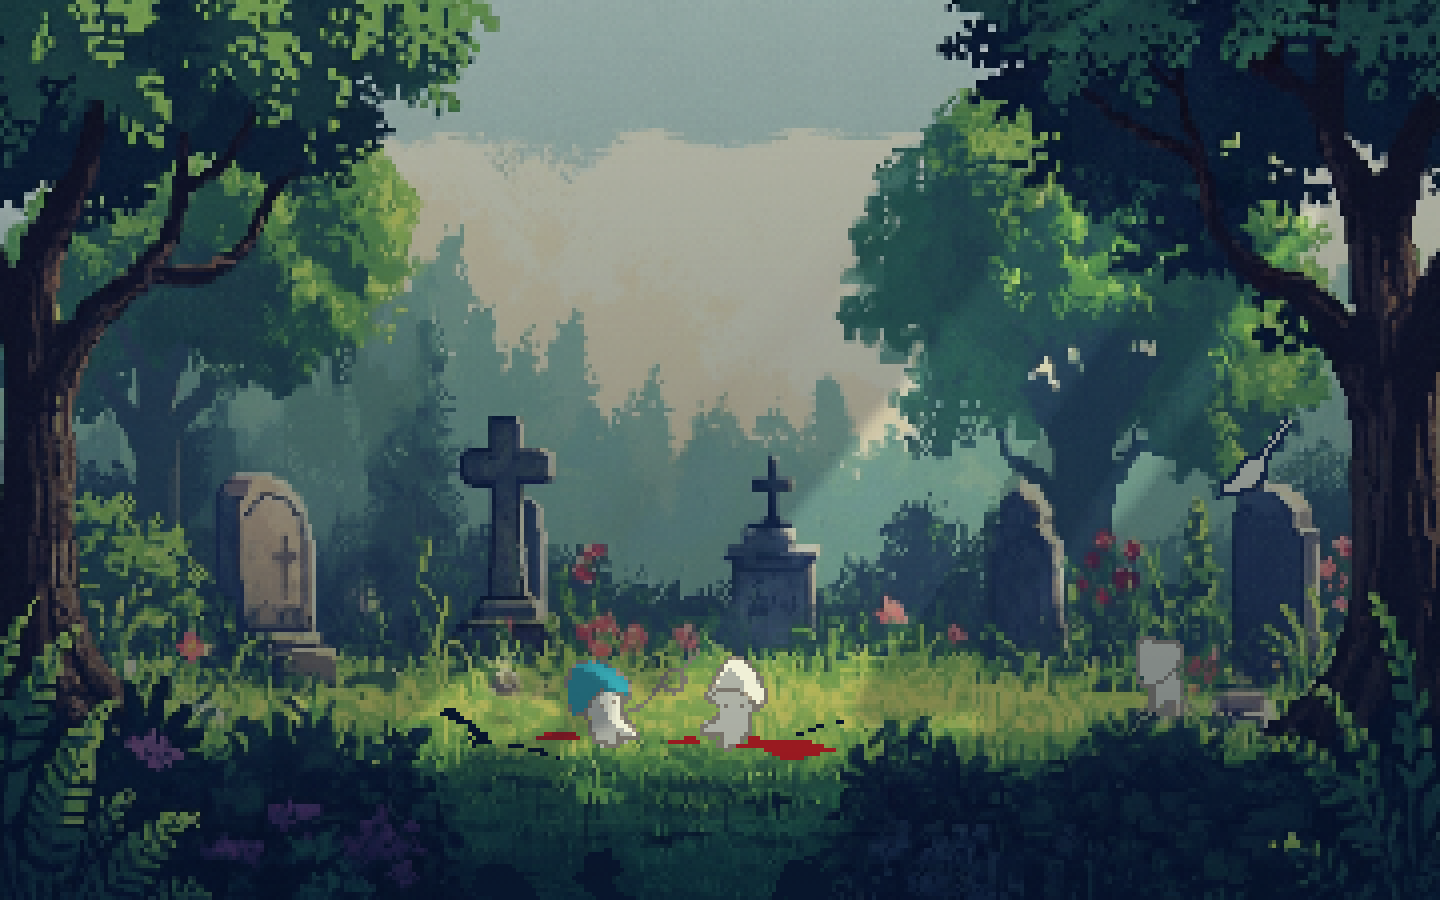
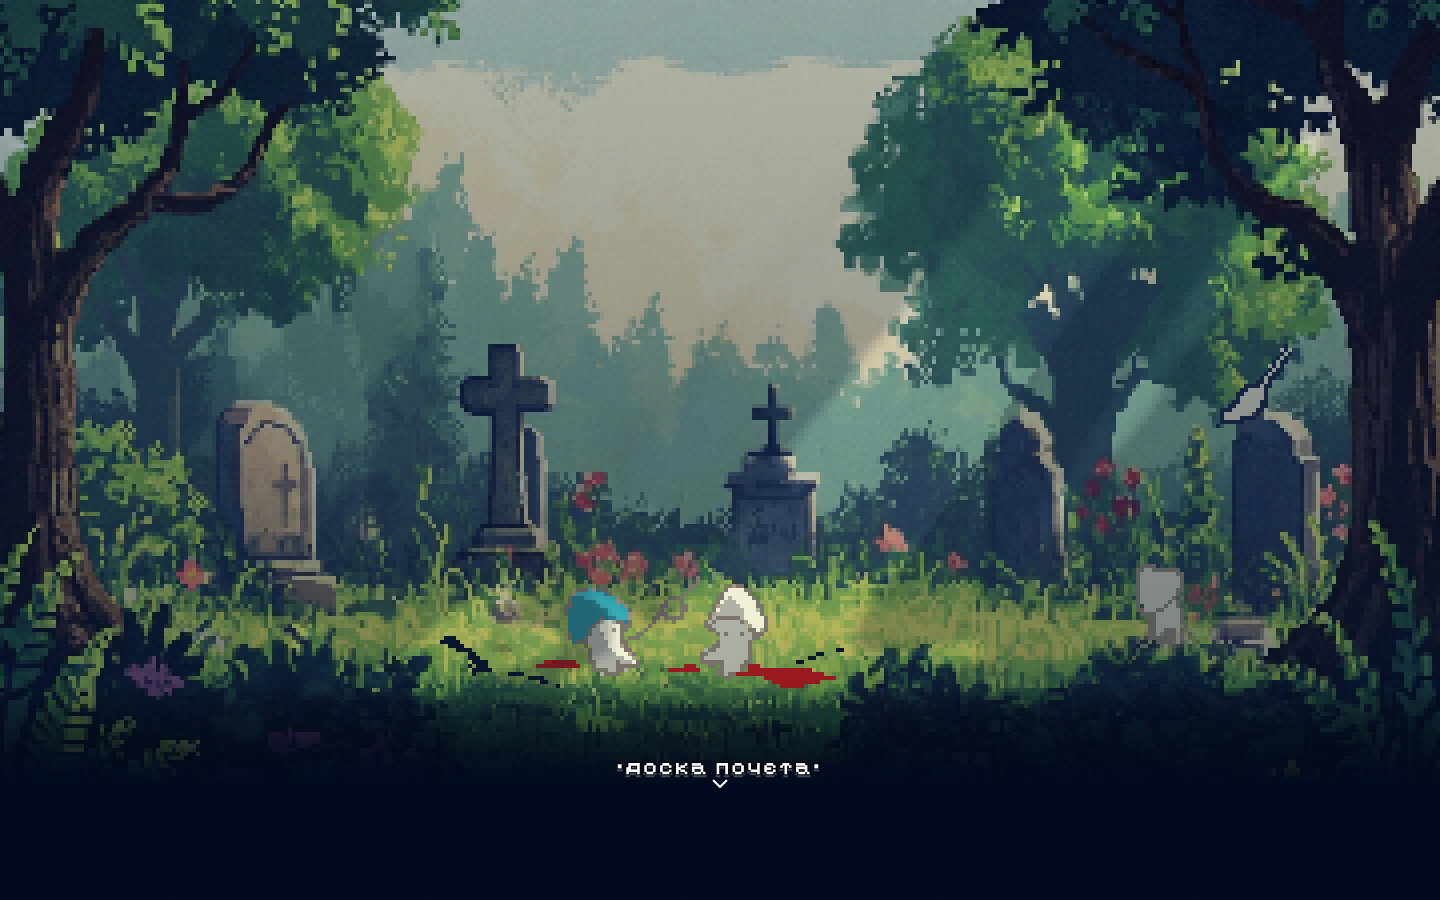
всякое

diff --git a/mushroomsArmy/client/src/pages/Lobby/Lobby.tsx b/mushroomsArmy/client/src/pages/Lobby/Lobby.tsx
@@ -359,82 +359,93 @@ const Lobby: React.FC<{ setPage: (page: PAGES) => void }> = ({ setPage }) => {
 
 
         <div className="lobby" style={lobbyPageStyle}>
-            <div className="lobby__container">
-                <div className="lobby__inner-border">
-                    {errorMsg && <div className="lobby__errorToast">{errorMsg}</div>}
 
-                    <h1 className="lobby__title">•список комнат•</h1>
+            <section className="lobby__screen lobby__screen--main">
+                <div className="lobby__container">
+                    <div className="lobby__inner-border">
+                        {errorMsg && <div className="lobby__errorToast">{errorMsg}</div>}
 
-                    <div className="lobby__list">
-                    {lobbies.length === 0 ? (
-                        <div className="lobby__empty">пока нет комнат :(</div>
-                    ) : (
-                        lobbies.map((lobby) => {
-                            const takenSlotsCount = LOBBY_ROLES.filter((role) => lobby.playersGuids[role] !== null).length;
-                            const armySlotTaken = lobby.playersGuids['mushroomsArmy'] !== null
-                                && lobby.playersGuids['mushroomsArmy'] !== user?.guid;
+                        <h1 className="lobby__title">•список комнат•</h1>
 
-                            return (
-                                <div key={lobby.lobbyGuid} className="lobby__card">
-                                    <div className="lobby__cardHeader">
-                                        <h3 className="lobby__cardTitle">{lobby.lobbyName}</h3>
-                                        <span className="lobby__slots">{takenSlotsCount}/5</span>
+                        <div className="lobby__list">
+                        {lobbies.length === 0 ? (
+                            <div className="lobby__empty">пока нет комнат :(</div>
+                        ) : (
+                            lobbies.map((lobby) => {
+                                const takenSlotsCount = LOBBY_ROLES.filter((role) => lobby.playersGuids[role] !== null).length;
+                                const armySlotTaken = lobby.playersGuids['mushroomsArmy'] !== null
+                                    && lobby.playersGuids['mushroomsArmy'] !== user?.guid;
+
+                                return (
+                                    <div key={lobby.lobbyGuid} className="lobby__card">
+                                        <div className="lobby__cardHeader">
+                                            <h3 className="lobby__cardTitle">{lobby.lobbyName}</h3>
+                                            <span className="lobby__slots">{takenSlotsCount}/5</span>
+                                        </div>
+
+                                        <div className="lobby__cardActions">
+                                            <span className="lobby__roleLabel">армия грибов</span>
+
+                                            <button
+                                                className="lobby__primaryButton"
+                                                disabled={armySlotTaken}
+                                                onClick={() => handleJoinLobby(lobby.lobbyGuid)}
+                                            >
+                                                войти
+                                            </button>
+                                        </div>
                                     </div>
+                                );
+                            })
+                        )}
+                        </div>
 
-                                    <div className="lobby__cardActions">
-                                        <span className="lobby__roleLabel">армия грибов</span>
+                        <button 
+                        className="lobby__secondaryButton lobby__secondaryButton--create" 
+                        onClick={handleCreateLobby}
+                        >
+                            создать комнату
+                        </button>
 
-                                        <button
-                                            className="lobby__primaryButton"
-                                            disabled={armySlotTaken}
-                                            onClick={() => handleJoinLobby(lobby.lobbyGuid)}
-                                        >
-                                            войти
-                                        </button>
-                                    </div>
+                        {isCreateModalOpen && (
+                        <div className="lobby__modalOverlay" onClick={() => setIsCreateModalOpen(false)}>
+                            <div className="lobby__modal" onClick={(event) => event.stopPropagation()}>
+                                <h3 className="lobby__modalTitle">создать комнату</h3>
+
+                                <input
+                                    className="lobby__input"
+                                    placeholder="название комнаты"
+                                    value={newLobbyName}
+                                    onChange={(event) => setNewLobbyName(event.target.value)}
+                                />
+
+                                <div className="lobby__modalActions">
+                                    <button className="lobby__secondaryButton" onClick={() => setIsCreateModalOpen(false)}>
+                                        отмена
+                                    </button>
+                                    <button
+                                        className="lobby__primaryButton"
+                                        disabled={!newLobbyName.trim()}
+                                        onClick={handleConfirmCreateLobby}
+                                    >
+                                        создать
+                                    </button>
                                 </div>
-                            );
-                        })
-                    )}
-                    </div>
-
-                    <button 
-                    className="lobby__secondaryButton lobby__secondaryButton--create" 
-                    onClick={handleCreateLobby}
-                    >
-                        создать комнату
-                    </button>
-
-                    {isCreateModalOpen && (
-                    <div className="lobby__modalOverlay" onClick={() => setIsCreateModalOpen(false)}>
-                        <div className="lobby__modal" onClick={(event) => event.stopPropagation()}>
-                            <h3 className="lobby__modalTitle">создать комнату</h3>
-
-                            <input
-                                className="lobby__input"
-                                placeholder="название комнаты"
-                                value={newLobbyName}
-                                onChange={(event) => setNewLobbyName(event.target.value)}
-                            />
-
-                            <div className="lobby__modalActions">
-                                <button className="lobby__secondaryButton" onClick={() => setIsCreateModalOpen(false)}>
-                                    отмена
-                                </button>
-                                <button
-                                    className="lobby__primaryButton"
-                                    disabled={!newLobbyName.trim()}
-                                    onClick={handleConfirmCreateLobby}
-                                >
-                                    создать
-                                </button>
                             </div>
                         </div>
+                        )}
                     </div>
-                    )}
                 </div>
-            </div>
+            </section>
+        
+
+            <section className="lobby__screen lobby__screen--credits">
+                {/* ДОСКА ПОЧЕТА */}
+            </section>  
+
+
         </div>
+
 
         <OptionsPannel
             variant="lobby" 

diff --git a/mushroomsArmy/client/src/pages/Lobby/Lobby.css b/mushroomsArmy/client/src/pages/Lobby/Lobby.css
@@ -6,28 +6,46 @@
 @import url('https://fonts.googleapis.com/css2?family=Pixelify+Sans:wght@400..700&display=swap');
 
 .lobby {
-    position: fixed;
-    top: 0;
-    left: 0;
     width: 100%;
-    height: 100%;
+
+    overflow-x: hidden;
+    
+
+    font-size: var(--font-base);
+    font-family: 'Pixelify Sans', sans-serif;
+}
+
+.lobby__screen {
+    min-height: 100vh;
+
+    scroll-snap-align: start;
+
     display: flex;
     justify-content: center;
-    align-items: flex-start;  
-    background: url('../../assets/ui/lobby/lobby-background.png') center / cover no-repeat fixed;
-    font-family: 'Pixelify Sans', sans-serif;
-    /* padding-top: 150px;      */
-    /* padding-top: calc(150px * var(--lobby-scale));      */
+    align-items: flex-start;
+}
+
+.lobby__screen--main {
     padding-top: clamp(
         40px,
         calc(90px * var(--lobby-scale)),
         120px
     );
-    font-size: var(--font-base);
-    overflow-y: auto;
 
-    
+    background:
+        url('../../assets/ui/lobby/lobby-background.png')
+        center / cover
+        no-repeat;
 }
+
+.lobby__screen--credits {
+    background:
+        url('../../assets/ui/lobby/credits.png')
+        center / cover
+        no-repeat;
+}
+
+
 .lobby button {
     font-family: var(--font-main);
 }
@@ -35,24 +53,7 @@
     content: '';
     position: absolute;
     inset: 0;
-    background: rgba(10, 12, 20, 0.445);           
-    backdrop-filter: blur(2px);                   
-    -webkit-backdrop-filter: blur(2px);
     z-index: 2;
-}
-.lobby::after {
-  content: "";
-  position: absolute;
-  inset: 0;
-  background-image: repeating-radial-gradient(
-    circle at 50% 50%, 
-    rgba(9, 14, 63, 0.168) 0%, 
-    transparent 10%
-  );
-  background-size: 4px 4px; 
-  opacity: 0.5;
-  pointer-events: none; 
-  z-index: 3;
 }
 
 .lobby__container {

diff --git a/mushroomsArmy/client/src/index.css b/mushroomsArmy/client/src/index.css
@@ -10,10 +10,10 @@ body,
   width: 100%;
   height: 100%;
   margin: 0;
-  overflow: hidden;
 }
 
 body {
+  
   font-family: -apple-system, BlinkMacSystemFont, 'Segoe UI', 'Roboto', 'Oxygen',
     'Ubuntu', 'Cantarell', 'Fira Sans', 'Droid Sans', 'Helvetica Neue', sans-serif;
   -webkit-font-smoothing: antialiased;
@@ -22,4 +22,7 @@ body {
 
 code {
   font-family: source-code-pro, Menlo, Monaco, Consolas, 'Courier New', monospace;
+}
+html {
+  scroll-snap-type: y mandatory;
 }

diff --git a/mushroomsArmy/client/src/App.css b/mushroomsArmy/client/src/App.css
@@ -1,8 +1,9 @@
 .App,
 .app {
   width: 100%;
-  height: 100%;
+  max-width: 100%;
+  min-height: 100vh;
   margin: 0;
   padding: 0;
-  overflow: hidden;
+  overflow-x: hidden;
 }
